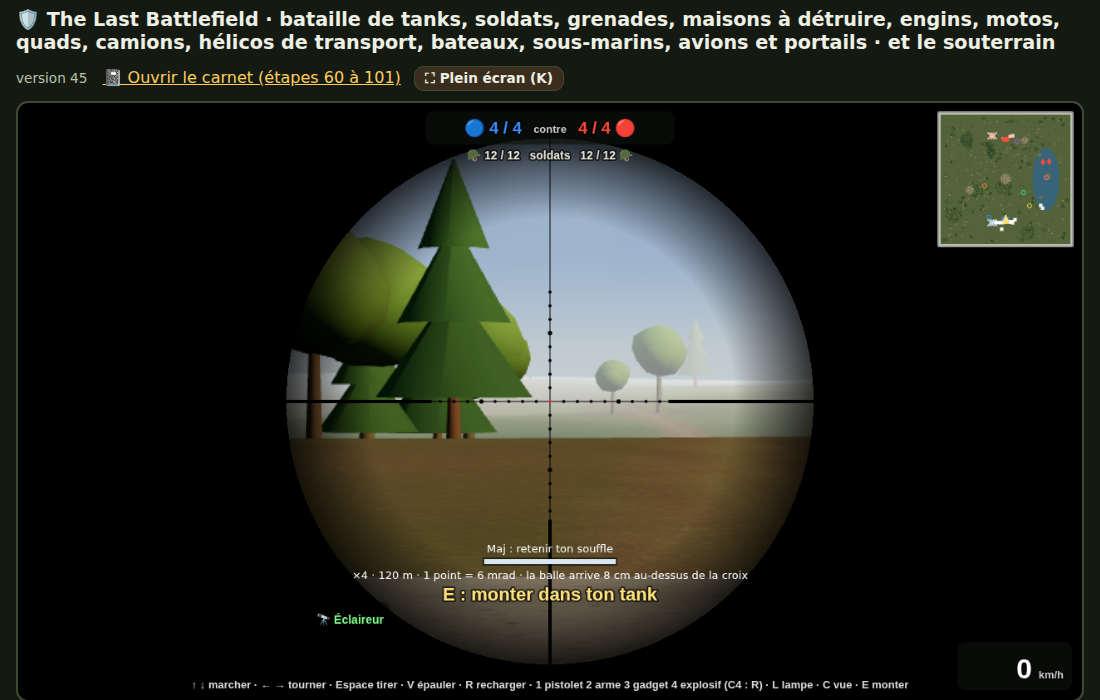
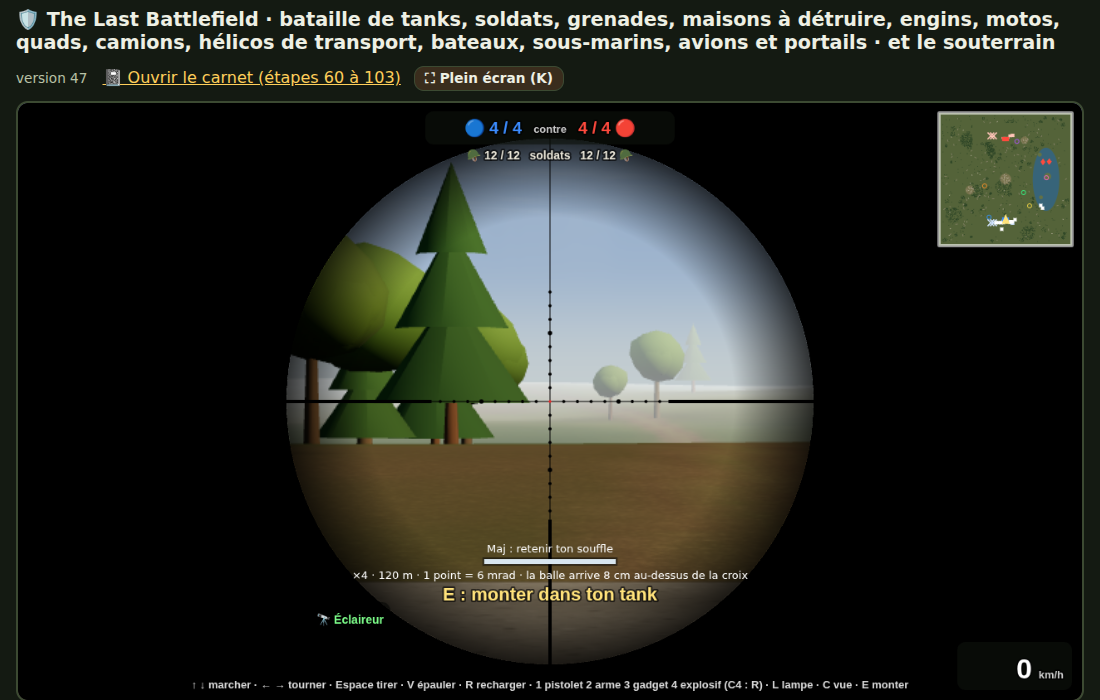
Étape 103 : tanks v47, fusils à pompe M870 et M870 Dragon (incendiaire)
Claude-Session: https://claude.ai/code/session_01NXxpzeFc1qsU3Rg1ZA8dHc

diff --git a/index.html b/index.html
@@ -223,6 +223,7 @@
       <a href="#etape99">Étape 99</a>
       <a href="#etape101">Étape 101</a>
       <a href="#etape102">Étape 102</a>
+      <a href="#etape103">Étape 103</a>
       <a href="#route">Vers Minecraft</a>
       <a href="#journal">Journal</a>
       <a class="jouer" href="jeu/index.html">▶ Jouer</a>
@@ -5263,6 +5264,40 @@ APRÈS :  [ tous les trottoirs soudés ]                   →   1 dessin</pre>
       </ol>
     </section>
 
+    <section id="etape103">
+      <h2>💥 Étape 103 : les fusils à pompe, normal et incendiaire <span class="etiquette">✅ livrée · à valider</span></h2>
+      <p class="chapeau">Le M870 (niveau 4) et le M870 Dragon incendiaire (niveau 8), pour l'Assaut et le Médecin. La 1re demande de ton livre de demandes ! <a href="tanks/index.html"><strong>▶ The Last Battlefield</strong></a></p>
+      <div class="grille">
+        <div class="carte">
+          <h4>📋 La demande</h4>
+          <p class="petit">Le fichier complet est dans <code>demandes/103-fusils-a-pompe.md</code> (et la liste entière dans <code>demandes/livre-de-demandes.md</code>).</p>
+          <ul><li>✍ « Les fusils à pompe, normaux et incendiaires, assez beaux et réalistes. »</li></ul>
+        </div>
+        <div class="carte">
+          <h4>✅ Ce que tu peux vérifier</h4>
+          <ul>
+            <li>☐ « version 47 ».</li>
+            <li>☐ Armurerie : le M870 (bois) et le M870 Dragon (noir et orange) en 3D.</li>
+            <li>☐ De près, un tir fait tomber un ennemi ; de loin, presque rien.</li>
+            <li>☐ Vue C : la pompe recule et revient après chaque tir ; recharge cartouche par cartouche.</li>
+            <li>☐ Le Dragon : des traînées de feu, et l'ennemi touché brûle 3 s.</li>
+          </ul>
+        </div>
+      </div>
+      <h3>🎯 Un tir = 8 balles</h3>
+      <p>Une cartouche de fusil à pompe contient des petits plombs. Le jeu fait donc 8 tirs à la fois, chacun un peu écarté. De près, presque tous touchent ; de loin, ils se sont tellement écartés que la plupart ratent. C'est pour ça que le fusil à pompe est terrible de près et inutile de loin : pas besoin d'une règle spéciale, ça vient tout seul de l'écart !</p>
+      <h3>🔍 Missions d'exploration</h3>
+      <ul>
+        <li>Sous le capot, ligne « 💥 fusil à pompe » : le nombre de plombs et combien de soldats brûlent.</li>
+        <li>Dans <code>tanks/config.js</code>, cherche <code>m870</code> et mets 12 plombs au lieu de 8.</li>
+      </ul>
+      <h3>❓ Quiz</h3>
+      <ol>
+        <li>Pourquoi le fusil à pompe rate-t-il de loin ? <span class="petit">(les plombs s'écartent de plus en plus)</span></li>
+        <li>Combien de temps brûle un ennemi touché par le Dragon ? <span class="petit">(3 secondes)</span></li>
+      </ol>
+    </section>
+
     <!-- ============ LE VILLAGE (projet à part) ============ -->
     <section id="village">
       <h2>🏘 Le village : un projet à part</h2>
@@ -6614,6 +6649,15 @@ APRÈS :  [ tous les trottoirs soudés ]                   →   1 dessin</pre>
         <textarea class="journal" id="appris-102" data-cle="appris-102" placeholder="Ex. : …"></textarea>
         <label for="idees-102"><strong>Mes idées pour la suite</strong></label>
         <textarea class="journal" id="idees-102" data-cle="idees-102" placeholder="Ex. : …"></textarea>
+      </div>
+      <div class="carte" style="margin-top: 14px">
+        <h4>Étape 103 · les fusils à pompe <span class="petit">· 23 octobre 2026</span></h4>
+        <p><strong>Ce qui a été changé :</strong> <code>tanks/config.js</code>, <code>logique/armes.js</code>, <code>soldat.js</code>, <code>affichage/armes3d.js</code>, <code>sons.js</code>, <code>tirs.js</code>.</p>
+        <p class="petit">✍ Maxance a demandé : des fusils à pompe normaux et incendiaires.</p>
+        <label for="appris-103"><strong>Ce que j'ai appris</strong> <span class="petit">(à remplir par Maxance, sauvegardé dans ce navigateur)</span></label>
+        <textarea class="journal" id="appris-103" data-cle="appris-103" placeholder="Ex. : …"></textarea>
+        <label for="idees-103"><strong>Mes idées pour la suite</strong></label>
+        <textarea class="journal" id="idees-103" data-cle="idees-103" placeholder="Ex. : …"></textarea>
       </div>
     </section>
   </main>

diff --git a/demandes/103-fusils-a-pompe.md b/demandes/103-fusils-a-pompe.md
@@ -1,6 +1,6 @@
 # Demande n° 103 : les fusils à pompe, normal et incendiaire
 
-> Statut : 🛠 en cours.
+> Statut : ✅ livrée (tanks version 47).
 > ✍ = ce que Maxance a décidé.
 
 ## 🎯 Quoi
@@ -14,5 +14,5 @@ réalistes. »
 - Un vrai modèle 3D (canon, tube magasin, pompe qui glisse), son propre son.
 
 ## ✅ Critères de réussite
-- [ ] Les deux fusils dans l'armurerie, en 3D.
-- [ ] En bataille : plusieurs plombs par tir, la pompe, et la brûlure des cartouches incendiaires.
+- [x] Les deux fusils dans l'armurerie, en 3D.
+- [x] En bataille : plusieurs plombs par tir, la pompe, et la brûlure des cartouches incendiaires.

diff --git a/demandes/livre-de-demandes.md b/demandes/livre-de-demandes.md
@@ -22,7 +22,7 @@ On commence par les fusils à pompe (demande 103), puis on suit la liste dans l'
 17. ⬜ Se faire soigner par ses compagnons.
 18. ⬜ Un compagnon à terre lève la main et demande des soins.
 19. ⬜ Demander une réanimation à ses compagnons.
-20. 🛠 Des fusils à pompe normaux et incendiaires. (demande 103, faite en premier)
+20. ✅ Des fusils à pompe normaux et incendiaires. (demande 103, version 47)
 21. ⬜ Améliorer les robots (les soldats de l'ordinateur).
 22. ⬜ Développer les Battle Coins.
 23. ❓ Faire tester le jeu par des beta testers. (il faut de vrais joueurs : avec Cyril)
